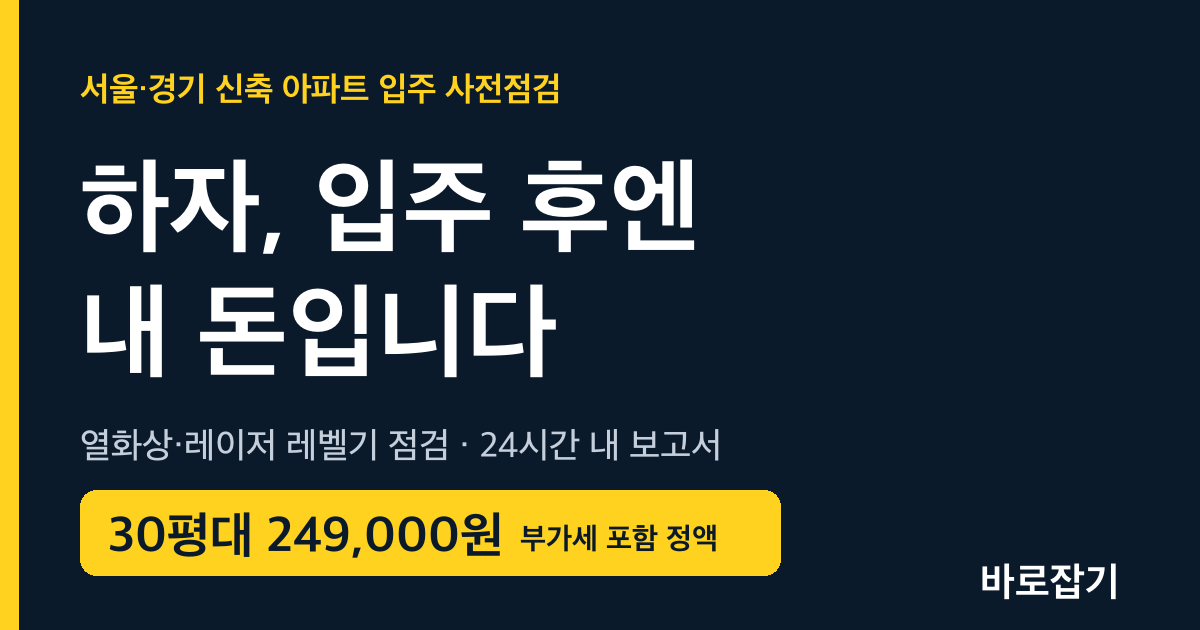
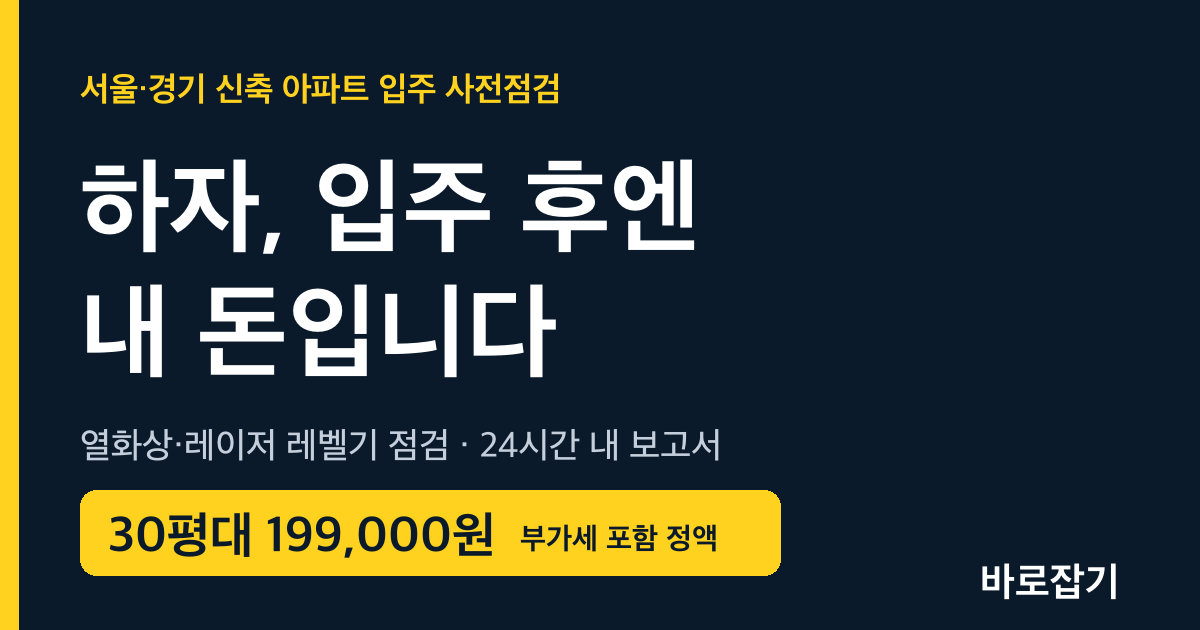
가격 인하: 20평대 이하 149,000 / 30평대(34평 기준) 199,000 / 40평대 이상 259,000

Changed region(s): [[0.2158, 0.8143, 0.4317, 0.9048]]

diff --git a/index.html b/index.html
@@ -62,7 +62,7 @@ input:focus,select:focus,button:focus-visible,a:focus-visible{outline:3px solid 
 <div style="flex: 1 1 520px; min-width: 0; display: flex; flex-direction: column; gap: 24px">
 <div style="font-family: 'IBM Plex Mono', monospace; font-size: 14px; font-weight: 600; letter-spacing: 0.04em; color: #FFD21F">서울·경기 신축 아파트 입주 사전점검</div>
 <h1 style="margin: 0; font-size: clamp(34px, 5vw, 58px); line-height: 1.18; font-weight: 900; letter-spacing: -0.02em">하자, 입주 후엔<br>내 돈입니다</h1>
-<p style="margin: 0; font-size: clamp(16px, 1.6vw, 19px); color: #C5CFDB; max-width: 560px">입주 전에 못 찾은 하자는 입주 후 내 비용이 됩니다. 열화상·레이저 레벨기로 세대 전체를 점검하고, 24시간 안에 보고서를 드립니다.</p><div style="display: inline-flex; flex-wrap: wrap; align-items: baseline; gap: 6px 14px; align-self: flex-start; padding: 14px 20px; border-radius: 12px; background: #FFD21F; color: #0B1A2B"><span style="font-size: 15px; font-weight: 800">30평대</span><span style="font-family: 'IBM Plex Mono', monospace; font-size: clamp(30px, 4vw, 40px); font-weight: 700; line-height: 1">249,000원</span><span style="font-size: 15px; font-weight: 800">부가세 포함 · 추가 요금 없음</span></div>
+<p style="margin: 0; font-size: clamp(16px, 1.6vw, 19px); color: #C5CFDB; max-width: 560px">입주 전에 못 찾은 하자는 입주 후 내 비용이 됩니다. 열화상·레이저 레벨기로 세대 전체를 점검하고, 24시간 안에 보고서를 드립니다.</p><div style="display: inline-flex; flex-wrap: wrap; align-items: baseline; gap: 6px 14px; align-self: flex-start; padding: 14px 20px; border-radius: 12px; background: #FFD21F; color: #0B1A2B"><span style="font-size: 15px; font-weight: 800">30평대</span><span style="font-family: 'IBM Plex Mono', monospace; font-size: clamp(30px, 4vw, 40px); font-weight: 700; line-height: 1">199,000원</span><span style="font-size: 15px; font-weight: 800">부가세 포함 · 추가 요금 없음</span></div>
 
 </div>
 <div style="order: 3; flex: 1 1 100%; display: flex; flex-wrap: wrap; gap: 16px 40px; padding-top: 24px; border-top: 1px solid #2A3B50">
@@ -433,7 +433,7 @@ input:focus,select:focus,button:focus-visible,a:focus-visible{outline:3px solid 
 <div style="display: flex; flex-wrap: wrap; gap: 20px; align-items: stretch">
 <div style="flex: 1 1 280px; border: 1px solid #DCE2EA; border-radius: 16px; padding: 32px; display: flex; flex-direction: column; gap: 16px">
 <h3 style="margin: 0; font-size: 20px; font-weight: 800">20평대 이하</h3>
-<div style="font-family: 'IBM Plex Mono', monospace; font-size: 32px; font-weight: 600">179,000<span style="font-family: 'Gothic A1', sans-serif; font-size: 18px; font-weight: 700">원</span></div>
+<div style="font-family: 'IBM Plex Mono', monospace; font-size: 32px; font-weight: 600">149,000<span style="font-family: 'Gothic A1', sans-serif; font-size: 18px; font-weight: 700">원</span></div>
 <p style="margin: 0; font-size: 15px; color: #55616F; flex: 1">전용 59㎡ 이하 세대</p>
 <a href="#apply" style="display: flex; align-items: center; justify-content: center; min-height: 48px; border: 1px solid #0B1A2B; border-radius: 10px; color: #0B1A2B; text-decoration: none; font-weight: 800">예약 문의</a>
 </div>
@@ -442,13 +442,13 @@ input:focus,select:focus,button:focus-visible,a:focus-visible{outline:3px solid 
 <h3 style="margin: 0; font-size: 20px; font-weight: 800">30평대</h3>
 <span style="padding: 4px 10px; border-radius: 999px; background: #FFD21F; color: #0B1A2B; font-size: 13px; font-weight: 800">가장 많이 선택</span>
 </div>
-<div style="font-family: 'IBM Plex Mono', monospace; font-size: 32px; font-weight: 600">249,000<span style="font-family: 'Gothic A1', sans-serif; font-size: 18px; font-weight: 700">원</span></div>
+<div style="font-family: 'IBM Plex Mono', monospace; font-size: 32px; font-weight: 600">199,000<span style="font-family: 'Gothic A1', sans-serif; font-size: 18px; font-weight: 700">원</span></div>
 <p style="margin: 0; font-size: 15px; color: #C5CFDB; flex: 1">전용 84㎡ 전후 세대</p>
 <a href="#apply" style="display: flex; align-items: center; justify-content: center; min-height: 48px; border-radius: 10px; background: #FFD21F; color: #0B1A2B; text-decoration: none; font-weight: 900">예약 문의</a>
 </div>
 <div style="flex: 1 1 280px; border: 1px solid #DCE2EA; border-radius: 16px; padding: 32px; display: flex; flex-direction: column; gap: 16px">
 <h3 style="margin: 0; font-size: 20px; font-weight: 800">40평대 이상</h3>
-<div style="font-family: 'IBM Plex Mono', monospace; font-size: 32px; font-weight: 600">319,000<span style="font-family: 'Gothic A1', sans-serif; font-size: 18px; font-weight: 700">원</span></div>
+<div style="font-family: 'IBM Plex Mono', monospace; font-size: 32px; font-weight: 600">259,000<span style="font-family: 'Gothic A1', sans-serif; font-size: 18px; font-weight: 700">원</span></div>
 <p style="margin: 0; font-size: 15px; color: #55616F; flex: 1">대형 평형, 복층, 펜트하우스는 별도 견적</p>
 <a href="#apply" style="display: flex; align-items: center; justify-content: center; min-height: 48px; border: 1px solid #0B1A2B; border-radius: 10px; color: #0B1A2B; text-decoration: none; font-weight: 800">예약 문의</a>
 </div>
